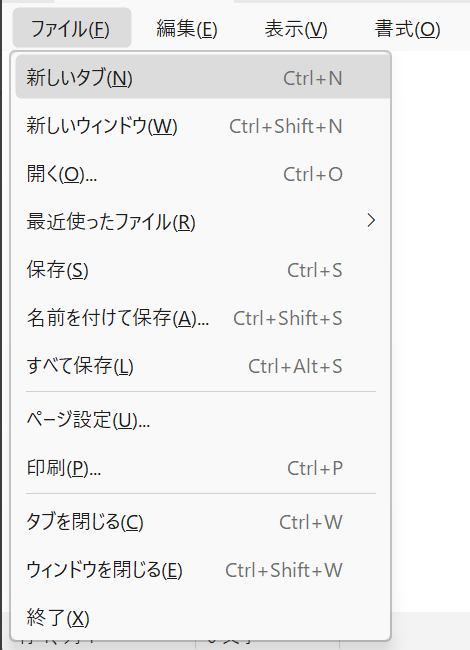
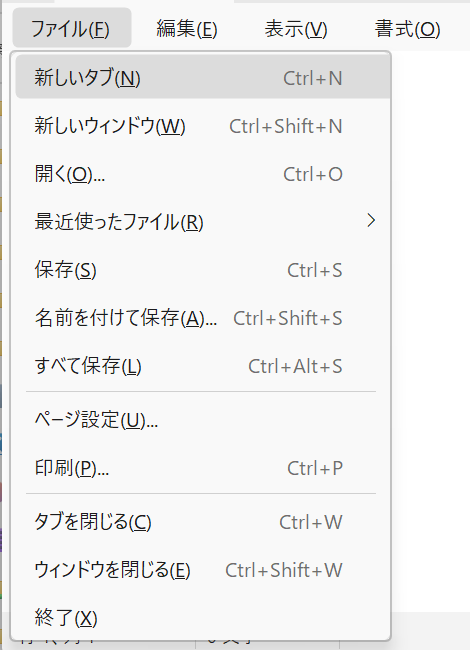
v0.9.1：ドロップで開いた文書が編集済みになる不具合を修正し、メニューの字下げを調整（FB-15 続き・FB-16）
7 回目のフィードバック。

FB-16：既存のファイルをドラッグ＆ドロップして開くと、最初から編集された
状態（タイトルの * とタブの●）になっていた。RichEdit が自分でもドロップを
処理し、ファイルを開いたあとに変更通知（EN_CHANGE）を上げるのが原因。
Views/FileDropTarget.cs（IDropTarget）を追加し、PlainTextEdit で RichEdit の
ドロップ先を RevokeDragDrop で外して RegisterDragDrop で差し替えた。
ファイルだけを受け取り、ドロップの処理を終えてから開く。

FB-15（続き）：v0.9.0 で字下げを浅くしすぎ、チェック欄の無いメニューで文字が
ポップアップの左端に寄っていた。FluentMenuRenderer で表題だけを 5 論理 px
字下げし、メモ帳と同じ位置にした。

Claude-Session: https://claude.ai/code/session_0148aQjGKW6VPJmiCj3VhxB2

diff --git a/docs/site/step3/index.html b/docs/site/step3/index.html
@@ -35,7 +35,8 @@
       <li><a href="#fb11">FB-11：起動がメモ帳よりワンテンポ遅い（v0.7.0）</a></li>
       <li><a href="#winforms">Windows Forms への作り直しと MemoPad への改名（v0.8.0）</a></li>
       <li><a href="#fb13">FB-13：タイトル行でウィンドウを動かせない（v0.9.0）</a></li>
-      <li><a href="#fb15">FB-14・FB-15：メニューの見た目（v0.9.0）</a></li>
+      <li><a href="#fb15">FB-14・FB-15：メニューの見た目（v0.9.0／v0.9.1）</a></li>
+      <li><a href="#fb16">FB-16：ドラッグ＆ドロップで開くと編集済みになる（v0.9.1）</a></li>
       <li><a href="#notes">つまずいた点のメモ</a></li>
     </ol>
   </div>
@@ -94,6 +95,16 @@
   </table>
   </div>
   <p>FB-13 は Windows Forms への作り直し（v0.8.0）で持ち込んだ不具合で、調べるとウィンドウ四辺のリサイズも同じ原因で効かなくなっていた（<a href="#fb13">10 節</a>）。FB-14 の (A) はメモ帳と同じアクセス キー表記なのでそのままにし、FB-15 のメニューはメモ帳と同じ位置に整えた（<a href="#fb15">11 節</a>）。「軽快さを変えないでほしい」という要望に対しては、本文の読み込みと描画には手を入れていないことに加え、13.4 MB（12 万行）のファイルを 0.42 秒で開けることを再計測して確かめた。</p>
+
+  <p>7 回目のフィードバック（2026-09-08、v0.9.0 の確認時）。メニューの文字の上下位置は OK との確認をもらった。</p>
+  <div class="table-wrap">
+  <table>
+    <tr><th>番号</th><th>種類</th><th>内容</th><th>対応版</th><th>状態</th></tr>
+    <tr><td>FB-15（続き）</td><td>改善</td><td>チェックの付かないメニューも、メモ帳では少しだけ字下げされている。アイコンが無いメニューは少し字下げするのが基本</td><td>v0.9.1</td><td><span class="tag must">対応済み</span></td></tr>
+    <tr><td>FB-16</td><td>不具合</td><td>既存のファイルをドラッグ＆ドロップして開くと、最初から編集された状態（タイトルの * とタブの●）になる</td><td>v0.9.1</td><td><span class="tag must">対応済み</span></td></tr>
+  </table>
+  </div>
+  <p>v0.9.0 では字下げを浅くしすぎて、文字がポップアップの左端に寄っていた。メモ帳と同じ控えめな字下げに直した（<a href="#fb15">11 節</a>）。FB-16 は RichEdit が自分でもドロップを処理してしまうのが原因で、ドロップ先を自前のものに差し替えて直した（<a href="#fb16">12 節</a>）。</p>
 
   <p>FB-9 は <code>src/memopad/memopad.ico</code> を差し替え（アイコンを描いていた <code>docs/tools/make-icon.ps1</code> は不要になったので削除）、インストーラにも <code>SetupIconFile</code> で同じアイコンを付けた。タイトル行の左端のアイコンは exe から取り出しているので自動で変わる。FB-10 はリポジトリ直下に README.md、<code>docs/index.html</code> に紹介ページを置き、GitHub Pages で main ブランチの <code>/docs</code> を公開した（紹介ページ：<a href="https://mrgarita.github.io/memopad/">mrgarita.github.io/memopad</a>、備忘録はその下の <code>site/</code>）。インストーラは GitHub Releases に置く。</p>
 
@@ -700,7 +711,7 @@
   </table>
   </div>
 
-  <h2 id="fb15">11. FB-14・FB-15：メニューの見た目（v0.9.0）</h2>
+  <h2 id="fb15">11. FB-14・FB-15：メニューの見た目（v0.9.0／v0.9.1）</h2>
   <h3>11.1 FB-14：「MemoPad について(A)」の (A)</h3>
   <p>(A) は About（バージョン情報）の頭文字を割り当てたアクセス キーの表記で、日本語版のメモ帳も「メモ帳について(A)」と出す昔からの決まり。<kbd>Alt</kbd>→<kbd>H</kbd>→<kbd>A</kbd> でダイアログが開く。他の項目（終了(X)、保存(S) など）とも揃っているので、そのままにした。</p>
 
@@ -708,11 +719,11 @@
   <p>「サブメニューの文字列がやや上付きでバランスが悪い」「メニューからサブメニューが字下げで表示されるが、字下げの幅が文字 2 文字分ほどあり右寄りすぎる」というフィードバック。メモ帳のメニューと並べて、ポップアップの左端から文字までの距離と、項目の中心に対する文字の上下位置を実測した（表示スケール 150 %、単位は実ピクセル）。</p>
   <div class="table-wrap">
   <table>
-    <tr><th>項目</th><th>メモ帳</th><th>MemoPad v0.8.0</th><th>MemoPad v0.9.0</th></tr>
-    <tr><td>字下げ（チェックの無いメニュー）</td><td>約 21 px</td><td>54 px</td><td>17 px</td></tr>
-    <tr><td>字下げ（チェックの付くメニュー）</td><td>約 58 px</td><td>54 px</td><td>50 px</td></tr>
-    <tr><td>項目の中心と文字の中心のずれ</td><td>ほぼ 0</td><td>5.5 px 上</td><td>1.5 px 下</td></tr>
-    <tr><td>項目の高さ</td><td>50 px</td><td>48 px</td><td>48 px</td></tr>
+    <tr><th>項目</th><th>メモ帳</th><th>MemoPad v0.8.0</th><th>MemoPad v0.9.0</th><th>MemoPad v0.9.1</th></tr>
+    <tr><td>字下げ（チェックの無いメニュー）</td><td>約 21 px</td><td>54 px</td><td>17 px</td><td><strong>25 px</strong></td></tr>
+    <tr><td>字下げ（チェックの付くメニュー）</td><td>約 58 px</td><td>54 px</td><td>50 px</td><td><strong>62 px</strong></td></tr>
+    <tr><td>項目の中心と文字の中心のずれ</td><td>ほぼ 0</td><td>5.5 px 上</td><td>1.5 px 下</td><td>1.5 px 下</td></tr>
+    <tr><td>項目の高さ</td><td>50 px</td><td>48 px</td><td>48 px</td><td>48 px</td></tr>
   </table>
   </div>
   <p>原因は 2 つあった。</p>
@@ -720,6 +731,11 @@
     <li><strong>字下げ：</strong>Windows Forms のポップアップ メニュー（<code>ToolStripDropDownMenu</code>）は、チェックやアイコンを置く欄（16 px＋余白）を既定で常に空ける。MemoPad はメニューにアイコンを使わないので、チェックの付く項目が 1 つも無いファイル・編集メニューでも欄だけが残り、字下げが全角 2 文字分になっていた。メモ帳（Windows 11 の新しいメニュー）は、チェックの付く項目があるメニューだけ字下げを深くしている。同じ考え方にして、<strong>チェックが付き得る項目のあるメニューだけ <code>ShowImageMargin</code> を有効</strong>にした（表示メニュー、テーマ、ステータスバーの改行コード／エンコード）。</li>
     <li><strong>上付き：</strong>既定のレイアウトでは、文字が項目の高さの中央より上に置かれる。<code>FluentMenuRenderer.OnRenderItemText</code> で、文字を描く矩形を項目の高さいっぱいに広げ、上下中央（<code>TextFormatFlags.VerticalCenter</code>）で描くようにした。</li>
   </ul>
+  <p>v0.9.0 ではアイコン欄を外した分そのままにしたので、今度は文字がポップアップの左端に近づきすぎた（17 px）。
+  「アイコンが無いメニューも少し字下げするのが基本」というフィードバックを受け、v0.9.1 で表題だけを 5 論理 px
+  右へ寄せてメモ帳と同じ見え方にした（25 px）。項目の余白（<code>ToolStripMenuItem.Padding</code>）でもポップアップの
+  余白（<code>ToolStripDropDownMenu.Padding</code>）でも左右の位置は動かせないので、<code>FluentMenuRenderer</code> で
+  文字を描く矩形をずらしている。ショートカットの表示（右寄せ）と、メニュー バーの項目はずらさない。</p>
   <div class="grid2">
     <figure>
       <img src="../img/step3/v090_menu_before.png" alt="v0.8.0 のファイル メニュー。文字が右に寄っている" loading="lazy">
@@ -727,11 +743,64 @@
     </figure>
     <figure>
       <img src="../img/step3/v090_menu_after.png" alt="v0.9.0 のファイル メニュー。字下げが浅くなった" loading="lazy">
-      <figcaption>図 11-2：v0.9.0。メモ帳と同じ位置に文字が来る（チェックの付く表示メニューだけは従来どおり字下げする）</figcaption>
+      <figcaption>図 11-2：v0.9.1。メモ帳と同じ位置に文字が来る（チェックの付く表示メニューだけは従来どおり深く字下げする）</figcaption>
     </figure>
   </div>
 
-  <h2 id="notes">12. つまずいた点のメモ</h2>
+  <h2 id="fb16">12. FB-16：ドラッグ＆ドロップで開くと編集済みになる（v0.9.1）</h2>
+  <h3>12.1 現象</h3>
+  <p>エクスプローラーから既存のテキスト ファイルを本文の上にドラッグ＆ドロップして開くと、開いた直後なのに
+  タイトルに <code>*</code>、タブに●が付いて「編集済み」の状態になる。本文の内容と文字数は正しく、そのまま閉じようとすると
+  保存の確認ダイアログが出てしまう。メニューの「開く」やエクスプローラーからの「プログラムから開く」では起きない。</p>
+  <div class="grid2">
+    <figure>
+      <img src="../img/step3/v091_drop_before.png" alt="ドロップ直後にタブへ●が付いている" loading="lazy">
+      <figcaption>図 12-1：v0.9.0 まで。開いた直後なのにタブが●（編集済み）になる</figcaption>
+    </figure>
+    <figure>
+      <img src="../img/step3/v091_drop_after.png" alt="ドロップ直後でも編集済みにならない" loading="lazy">
+      <figcaption>図 12-2：v0.9.1。ファイルを開くだけの状態になる</figcaption>
+    </figure>
+  </div>
+
+  <h3>12.2 原因：ドロップを RichEdit にも処理させていた</h3>
+  <p>本文の RichEdit は OLE のドロップ先を自分で登録していて、Windows Forms はそこに相乗りする形で
+  <code>DragDrop</code> イベントを出す。MemoPad はそのイベントでファイルを開いていたが、<strong>イベントを出したあとに
+  RichEdit 自身のドロップ処理が続く</strong>。プレーン テキスト モードでは実際には何も貼り付けられないものの、
+  変更通知（EN_CHANGE）だけが上がるため、直前に読み込んだばかりの文書が「編集済み」と判定されていた。</p>
+  <p>ドロップ先のタブが空の「タイトルなし」だと、そのタブを使い回してファイルを読み込む（メモ帳と同じ挙動）ので、
+  読み込んだ文書そのものに●が付く。本文に何か書いてある状態で落としたときは別のタブが作られるため、
+  新しいタブは●にならず、現象が見えにくかった。</p>
+
+  <h3>12.3 直し方：ドロップ先を自前のものに差し替える</h3>
+  <p><code>Views/FileDropTarget.cs</code> に <code>IDropTarget</code> の実装を追加し、RichEdit のハンドルができたところで
+  <code>RevokeDragDrop</code>→<code>RegisterDragDrop</code> と差し替える。受け付けるのはファイル（CF_HDROP）だけで、
+  ドロップされたデータは RichEdit に渡さない。これで「ファイルを開くだけ」の動作になる。
+  ファイルを開く処理自体は <code>BeginInvoke</code> で後回しにして、ドロップの処理中にドラッグ元を待たせないようにした。</p>
+  <div class="table-wrap">
+  <table>
+    <tr><th>落とす場所</th><th>受け取るもの</th><th>v0.9.1 の動き</th></tr>
+    <tr><td>本文（RichEdit）</td><td><code>FileDropTarget</code>（自前）</td><td>開くだけ。編集済みにならない</td></tr>
+    <tr><td>タイトル行・メニュー・ステータスバー</td><td>フォームの <code>DragDrop</code>（従来どおり）</td><td>開くだけ</td></tr>
+    <tr><td>ファイル以外（文字列など）</td><td>—</td><td>受け付けない（従来どおり）</td></tr>
+  </table>
+  </div>
+
+  <h3>12.4 確かめ方</h3>
+  <p>エクスプローラーを開いてファイルの項目の位置を UI Automation で取り、<code>mouse_event</code> で実際にドラッグして
+  MemoPad に落とすスクリプトで確認した。自前のウィンドウから <code>DoDragDrop</code> で送る合成のドロップでは、
+  RichEdit に拒否されて再現しなかった（エクスプローラーが渡すデータには複数の形式が入っているため挙動が違う）。
+  再現には本物のドラッグが要る、という点も含めての確認になった。</p>
+  <div class="table-wrap">
+  <table>
+    <tr><th>手順</th><th>v0.9.0</th><th>v0.9.1</th></tr>
+    <tr><td>空のタブに本文へドロップ</td><td><code>*dd_sample.txt</code>（編集済み）</td><td><code>dd_sample.txt</code></td></tr>
+    <tr><td>入力済みのタブがある状態で本文へドロップ</td><td>新しいタブで開く（編集済みにはならない）</td><td>同じ</td></tr>
+    <tr><td>タイトル行へドロップ</td><td><code>dd_sample.txt</code></td><td>同じ</td></tr>
+  </table>
+  </div>
+
+  <h2 id="notes">13. つまずいた点のメモ</h2>
   <ul>
     <li><strong>体感の遅さは、まず数値にする。</strong>アプリ内部のログだけ見ると「速い」と結論しかねなかった。画面のピクセルが変わるまでを別プロセスから測って初めて、メモ帳との差（19 ms 対 50 ms）が見えた。</li>
     <li><strong>PowerShell 5.1 は <code>$null</code> を文字列引数に渡すと空文字になる。</strong><code>FindWindow($null, "title")</code> がクラス名 "" で検索して失敗した。<code>[NullString]::Value</code> を渡す。</li>
@@ -748,6 +817,8 @@
     <li><strong>自前のタイトル バーは、子コントロールが当たり判定を横取りする。</strong>親フォームが <code>WM_NCHITTEST</code> で HTCAPTION と答えても、その座標に子ウィンドウがあると Windows は子に尋ねる。1 枚の HWND で描く WPF から、コントロールごとに HWND を持つ Windows Forms に移ると必ず踏む。子から <code>HTTRANSPARENT</code> を返して親へ譲る。</li>
     <li><strong>ウィンドウの移動・リサイズは実際のマウス操作で確かめる。</strong><code>WindowFromPoint</code> は HTTRANSPARENT を無視して子ウィンドウを返すので、これだけでは直ったか分からない。<code>mouse_event</code> でドラッグして、ウィンドウの位置とサイズの変化を見るのが確実。</li>
     <li><strong>ToolStripMenuItem の <code>Padding</code> は左右が効かない。</strong>メニュー項目の字下げを変えようと 4 → 13 → 40 px と変えても文字の位置は 1 px も動かなかった（効くのは上下＝項目の高さだけ）。左右はポップアップ側のアイコン欄（<code>ShowImageMargin</code>）と内部レイアウトが決めている。値を変えて撮影・実測する確認を挟まないと、効かない設定をそれらしいコメント付きで残してしまう。</li>
+    <li><strong>RichEdit はドロップを自分でも処理する。</strong>Windows Forms の <code>DragDrop</code> イベントでファイルを開いても、そのあとに RichEdit 側の処理が走って変更通知が上がる。貼り付けられる中身が無くても通知だけは来るので、開いたばかりの文書が「編集済み」になった。ドロップ先（<code>IDropTarget</code>）ごと自前のものに差し替えるのが確実。</li>
+    <li><strong>ドラッグ＆ドロップの不具合は本物のドラッグでないと再現しない。</strong>自前のウィンドウから <code>DoDragDrop</code> で送ったドロップは RichEdit に拒否されて素通りした。エクスプローラーが渡すデータ オブジェクトには複数の形式が入っていて、挙動がまったく違う。エクスプローラーの項目の位置を UI Automation で取り、実際のマウス操作でドラッグするのが確実。</li>
     <li><strong>自前描画はアクセシビリティを落とす。</strong>1 枚のコントロールに描いたタブは、見た目は同じでも支援技術からは何も見えない。実体のあるコントロール（<code>Button</code> 継承）にすると標準の仕組みに乗る。</li>
   </ul>
 </main>

diff --git a/docs/site/index.html b/docs/site/index.html
@@ -51,13 +51,14 @@
     </div>
     <div class="card">
       <h3><a href="./step3/index.html">step3：完成品のフィードバック対応</a></h3>
-      <p>実際に使って気づいた点を 1 件ずつ記録し、バージョンを分けて対応する。v0.2.0 で IME 入力の遅延をメモ帳並みに改善（エディタを RichEdit に置き換え）、v0.3.0 でタブ→メニュー→本文の並びと高さをメモ帳に合わせ、v0.4.0 で「色変更」ダイアログ（PICO-8 の 16 色）に統合、v0.5.0 で目に優しい配色 16 パターンを追加した。v0.8.0 で起動時間をメモ帳と同等にして MemoPad に改名、v0.9.0 でタイトル行のウィンドウ操作とメニューの見た目を直した。フィードバックが 0 件になったら v1.0。</p>
+      <p>実際に使って気づいた点を 1 件ずつ記録し、バージョンを分けて対応する。v0.2.0 で IME 入力の遅延をメモ帳並みに改善（エディタを RichEdit に置き換え）、v0.3.0 でタブ→メニュー→本文の並びと高さをメモ帳に合わせ、v0.4.0 で「色変更」ダイアログ（PICO-8 の 16 色）に統合、v0.5.0 で目に優しい配色 16 パターンを追加した。v0.8.0 で起動時間をメモ帳と同等にして MemoPad に改名、v0.9.0〜v0.9.1 でタイトル行のウィンドウ操作、メニューの見た目、ドラッグ＆ドロップで開いた直後の状態を直した。フィードバックが 0 件になったら v1.0。</p>
       <div class="status"><span class="tag must">公開中</span> 2026-09-08</div>
     </div>
   </div>
 
   <h2>更新履歴</h2>
   <ul>
+    <li>2026-09-08：v0.9.1 でドラッグ＆ドロップで開いたファイルが編集済みになる不具合を修正。メニューの字下げをメモ帳と同じ控えめな量に調整。</li>
     <li>2026-09-08：v0.9.0 でタイトル行のドラッグ移動・ダブルクリックでの最大化・四辺のリサイズを修正（当たり判定を親ウィンドウへ譲るようにした）。メニューの字下げと文字の上下位置をメモ帳に合わせた。</li>
     <li>2026-09-08：v0.8.0 でメイン ウィンドウを Windows Forms に作り直し、起動時間をメモ帳と同等（ウィンドウ表示 221 ms 対 211 ms）にした。あわせて名称を MemoPad に改め、アイコンを新デザインに差し替えた。</li>
     <li>2026-09-08：v0.7.0 で起動時間を調査・短縮（ソフトウェア描画、設定 JSON のソース ジェネレーター化、アセンブリの先読み）。WPF の下限が約 400 ms でメモ帳（約 200 ms）に届かないことが判明した。</li>

diff --git a/src/memopad/Views/PlainTextEdit.cs b/src/memopad/Views/PlainTextEdit.cs
@@ -33,11 +33,18 @@ public sealed class PlainTextEdit : WinForms.RichTextBox
     [DllImport("uxtheme.dll", CharSet = CharSet.Unicode)]
     private static extern int SetWindowTheme(IntPtr hWnd, string? subAppName, string? subIdList);
 
+    [DllImport("ole32.dll")]
+    private static extern int RegisterDragDrop(IntPtr hWnd, IOleDropTarget target);
+
+    [DllImport("ole32.dll")]
+    private static extern int RevokeDragDrop(IntPtr hWnd);
+
     [StructLayout(LayoutKind.Sequential)]
     private struct RECT { public int Left, Top, Right, Bottom; }
 
     private bool _wordWrap = true;
     private bool _darkScrollBars;
+    private FileDropTarget? _dropTarget;
 
     public PlainTextEdit()
     {
@@ -47,8 +54,9 @@ public sealed class PlainTextEdit : WinForms.RichTextBox
         ScrollBars = WinForms.RichTextBoxScrollBars.Both;   // 必要なときだけ出る
         HideSelection = false;                               // 検索バーへフォーカスが移っても選択を見せる
         DetectUrls = false;
-        EnableAutoDragDrop = false;                          // 自前の OLE ドロップを止め、ファイルのドロップを受ける
-        AllowDrop = true;
+        EnableAutoDragDrop = false;                          // RichEdit 自身のドラッグ＆ドロップは使わない
+        // ファイルのドロップは FileDropTarget で受ける（AllowDrop = true にすると RichEdit にも
+        // ドロップが渡り、開いた直後の文書が「編集済み」になってしまう）
         AutoWordSelection = false;
         // 日本語など別スクリプトの文字は RichEdit の自動フォント選択（フォント バインディング）で適切なフォントに切り替える
         LanguageOption = WinForms.RichTextBoxLanguageOptions.AutoFont | WinForms.RichTextBoxLanguageOptions.DualFont;
@@ -97,6 +105,7 @@ public sealed class PlainTextEdit : WinForms.RichTextBox
         ApplyWrap();
         ApplyScrollBarTheme();
         ApplyInset();
+        RegisterFileDropTarget();
         Services.PerfLog.Mark("RichEdit の初期化を完了");
     }
 
@@ -112,16 +121,25 @@ public sealed class PlainTextEdit : WinForms.RichTextBox
         if (IsHandleCreated) ApplyInset();
     }
 
-    protected override void OnDragEnter(WinForms.DragEventArgs e)
+    protected override void OnHandleDestroyed(EventArgs e)
     {
-        e.Effect = e.Data?.GetDataPresent(WinForms.DataFormats.FileDrop) == true ? WinForms.DragDropEffects.Copy : WinForms.DragDropEffects.None;
-        base.OnDragEnter(e);
+        if (IsHandleCreated) RevokeDragDrop(Handle);
+        base.OnHandleDestroyed(e);
     }
 
-    protected override void OnDragDrop(WinForms.DragEventArgs e)
+    /// <summary>
+    /// RichEdit が自分で登録しているドロップ先を外し、ファイルだけを受け取る自前のものに差し替える。
+    /// RichEdit に処理させると、ファイルを開いた直後の文書が「編集済み」になってしまうため
+    /// （経緯は <see cref="FileDropTarget"/>）。
+    /// </summary>
+    private void RegisterFileDropTarget()
     {
-        if (e.Data?.GetData(WinForms.DataFormats.FileDrop) is string[] files) FilesDropped?.Invoke(files);
-        base.OnDragDrop(e);
+        WinForms.Application.OleRequired();
+        RevokeDragDrop(Handle);
+        // ドロップの処理中に開くと、ファイルが大きいときにドラッグ元を待たせてしまうので、
+        // メッセージを処理し終えてから開く
+        _dropTarget ??= new FileDropTarget(files => BeginInvoke(() => FilesDropped?.Invoke(files)));
+        RegisterDragDrop(Handle, _dropTarget);
     }
 
     protected override void WndProc(ref WinForms.Message m)

diff --git a/src/memopad/Views/FileDropTarget.cs b/src/memopad/Views/FileDropTarget.cs
@@ -1,0 +1,79 @@
+using System.Runtime.InteropServices;
+using WinForms = System.Windows.Forms;
+
+namespace Memopad.Views;
+
+/// <summary>OLE のドロップ先（<c>IDropTarget</c>）。ウィンドウ 1 つにつき 1 つだけ登録できる。</summary>
+[ComImport, Guid("00000122-0000-0000-C000-000000000046"), InterfaceType(ComInterfaceType.InterfaceIsIUnknown)]
+internal interface IOleDropTarget
+{
+    // POINTL（LONG 2 つ）は値渡しなので long 1 つとして受け取る
+    [PreserveSig] int OleDragEnter([In, MarshalAs(UnmanagedType.Interface)] object pDataObj, [In] int grfKeyState, [In] long pt, [In, Out] ref int pdwEffect);
+    [PreserveSig] int OleDragOver([In] int grfKeyState, [In] long pt, [In, Out] ref int pdwEffect);
+    [PreserveSig] int OleDragLeave();
+    [PreserveSig] int OleDrop([In, MarshalAs(UnmanagedType.Interface)] object pDataObj, [In] int grfKeyState, [In] long pt, [In, Out] ref int pdwEffect);
+}
+
+/// <summary>
+/// ファイルのドロップだけを受け取るドロップ先。本文（RichEdit）に登録して使う。
+///
+/// RichEdit は自分でもドロップを処理する。Windows Forms 経由でドロップのイベントを受け取って
+/// ファイルを開いても、そのあと RichEdit 側の処理が走って変更通知（EN_CHANGE）が上がるため、
+/// 開いたばかりの文書が「編集済み」（タイトルの * とタブの●）になってしまっていた（v0.8.0 の不具合）。
+/// ドロップ先を丸ごとこのクラスに差し替え、RichEdit にドロップを渡さないことで、
+/// 「ファイルを開くだけ」の動作にする。
+/// </summary>
+internal sealed class FileDropTarget : IOleDropTarget
+{
+    private const int S_OK = 0;
+    private const int DropEffectNone = 0;
+    private const int DropEffectCopy = 1;
+
+    private readonly Action<string[]> _onFiles;
+    private bool _acceptable;
+
+    public FileDropTarget(Action<string[]> onFiles) => _onFiles = onFiles;
+
+    int IOleDropTarget.OleDragEnter(object pDataObj, int grfKeyState, long pt, ref int pdwEffect)
+    {
+        _acceptable = GetFiles(pDataObj) is { Length: > 0 };
+        pdwEffect = _acceptable ? DropEffectCopy : DropEffectNone;
+        return S_OK;
+    }
+
+    int IOleDropTarget.OleDragOver(int grfKeyState, long pt, ref int pdwEffect)
+    {
+        pdwEffect = _acceptable ? DropEffectCopy : DropEffectNone;
+        return S_OK;
+    }
+
+    int IOleDropTarget.OleDragLeave()
+    {
+        _acceptable = false;
+        return S_OK;
+    }
+
+    int IOleDropTarget.OleDrop(object pDataObj, int grfKeyState, long pt, ref int pdwEffect)
+    {
+        _acceptable = false;
+        var files = GetFiles(pDataObj);
+        pdwEffect = files is { Length: > 0 } ? DropEffectCopy : DropEffectNone;
+        if (files is { Length: > 0 }) _onFiles(files);
+        return S_OK;
+    }
+
+    /// <summary>ドロップされたデータからファイルの一覧を取り出す。ファイルでなければ null。</summary>
+    private static string[]? GetFiles(object? dataObject)
+    {
+        if (dataObject is not System.Runtime.InteropServices.ComTypes.IDataObject com) return null;
+        try
+        {
+            return new WinForms.DataObject(com).GetData(WinForms.DataFormats.FileDrop) as string[];
+        }
+        catch
+        {
+            // 扱えない形式のドロップは受け付けない
+            return null;
+        }
+    }
+}

diff --git a/src/memopad/Views/FluentMenuRenderer.cs b/src/memopad/Views/FluentMenuRenderer.cs
@@ -11,6 +11,9 @@ namespace Memopad.Views;
 /// </summary>
 public sealed class FluentMenuRenderer : ToolStripRenderer
 {
+    /// <summary>ポップアップ内の表題の字下げ（論理 px）。メモ帳のメニューに合わせた控えめな量。</summary>
+    private const int TextIndent = 5;
+
     private Font? _glyphFont;
     private int _glyphDpi;
 
@@ -74,9 +77,12 @@ public sealed class FluentMenuRenderer : ToolStripRenderer
         // ショートカット表示（右寄せで描かれる）は薄い色にする
         var shortcut = (e.TextFormat & TextFormatFlags.Right) == TextFormatFlags.Right;
         e.TextColor = !e.Item.Enabled ? Palette.MutedText : shortcut ? Palette.MutedText : Palette.Text;
-        // 既定のレイアウトでは文字が項目の上に寄って見えるので、項目の高さいっぱいの矩形に上下中央で描く
+        // 既定のレイアウトでは文字が項目の上に寄って見えるので、項目の高さいっぱいの矩形に上下中央で描く。
+        // 左寄せの表題は、メモ帳と同じく少しだけ字下げする（チェック欄が無いメニューだと左に付きすぎるため。
+        // ToolStripMenuItem の Padding や ToolStripDropDownMenu の Padding では左右の位置は動かせない）
         var r = e.TextRectangle;
-        e.TextRectangle = new Rectangle(r.X, 0, r.Width, e.Item.Height);
+        var indent = shortcut || !e.Item.IsOnDropDown ? 0 : S(e.Item.Owner!, TextIndent);
+        e.TextRectangle = new Rectangle(r.X + indent, 0, Math.Max(0, r.Width - indent), e.Item.Height);
         e.TextFormat |= TextFormatFlags.VerticalCenter;
         base.OnRenderItemText(e);
     }
